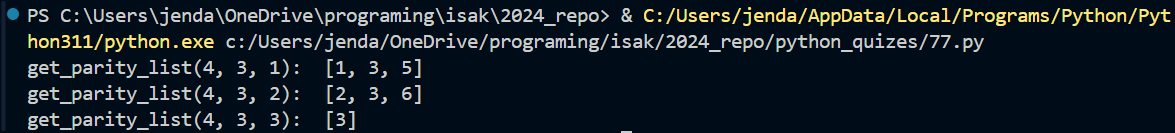
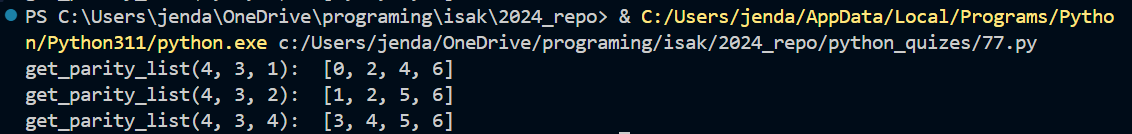
all quizes finishe up to 79

diff --git a/python_quizes/quiz79.py b/python_quizes/quiz79.py
@@ -9,16 +9,17 @@ def ham_position(k):
 
 def get_parity_list(k, n, P):
     parity_list = []
-    for i in range(k+n):
+    for i in range(P+1, k+n +1):
         if i & P == P:
-            parity_list.append(i)
+            parity_list.append(i-1)
     return parity_list
 
 
 def get_parity(message: str, parity_list):
     parity = 0
     for P in parity_list:
-        parity += int(message[P-1])
+        parity += int(message[P])
+    # print(f"parity for {parity_list} is {parity%2}")
     return parity % 2
 
 def get_msg_with_parity(message: str, ham_postitions, k):
@@ -33,17 +34,18 @@ def get_msg_with_parity(message: str, ham_postitions, k):
 def hamming_code(message: str):
     n = len(message)
     k = find_k(n)
-    ham_postitions = ham_position(k)
-    res = get_msg_with_parity(message, ham_postitions, k)
-    for P in ham_postitions:
-        parity_list = get_parity_list(k, n, P)
+    positions = ham_position(k)
+    res = get_msg_with_parity(message, positions, k)
+    for P in positions:
+        parity_list = get_parity_list(k, n, P+1)
+        # print(f"parity_list for {P+1} is {parity_list}")
         parity = get_parity(res, parity_list)
         res[P] = parity
     res = [str(i) for i in res]
     return ''.join(res)
 
 print("original code: ", '1011', "hamming code: ", hamming_code('1011'))
-print("original code: ", '0110', "hamming code: ", hamming_code('0110'))
-print("original code: ", '101010', "hamming code: ", hamming_code('101010'))
+print("original code: ", '1111', "hamming code: ", hamming_code('1111'))
+print("original code: ", '1001', "hamming code: ", hamming_code('1001'))
 
 

diff --git a/python_quizes/77.py b/python_quizes/77.py
@@ -1,12 +1,11 @@
 def get_parity_list(k, n, P):
     parity_list = []
-    for i in range(k+n):
-        bin_i = bin(i)
+    for i in range(P, k+n +1):
         if i & P == P:
-            parity_list.append(i)
+            parity_list.append(i-1)
     return parity_list
 
 print("get_parity_list(4, 3, 1): ", get_parity_list(4, 3, 1))
 print("get_parity_list(4, 3, 2): ", get_parity_list(4, 3, 2))
-print("get_parity_list(4, 3, 3): ", get_parity_list(4, 3, 3))
+print("get_parity_list(4, 3, 4): ", get_parity_list(4, 3, 4))
 

diff --git a/quizes/79.md b/quizes/79.md
@@ -21,16 +21,16 @@ def positions(k):
 def get_parity_list(k, n, P):
     """Find the positions of the bits to be checked for parity for a given parity bit"""
     parity_list = []
-    for i in range(k+n):
+    for i in range(P+1, k+n +1):
         if i & P == P:
-            parity_list.append(i)
+            parity_list.append(i-1)
     return parity_list
 
 def get_parity(message: str, parity_list):
     """Find the parity of the bits in the parity list"""
     parity = 0
     for P in parity_list:
-        parity += int(message[P-1])
+        parity += int(message[P])
     return parity % 2
 
 def get_msg_with_parity(message: str, positions, k):

diff --git a/quizes/77.md b/quizes/77.md
@@ -9,9 +9,9 @@
 ```python
 def get_parity_list(k, n, P):
     parity_list = []
-    for i in range(k+n):
+    for i in range(P, k+n +1):
         if i & P == P:
-            parity_list.append(i)
+            parity_list.append(i-1)
     return parity_list
 ```
 ## Output
